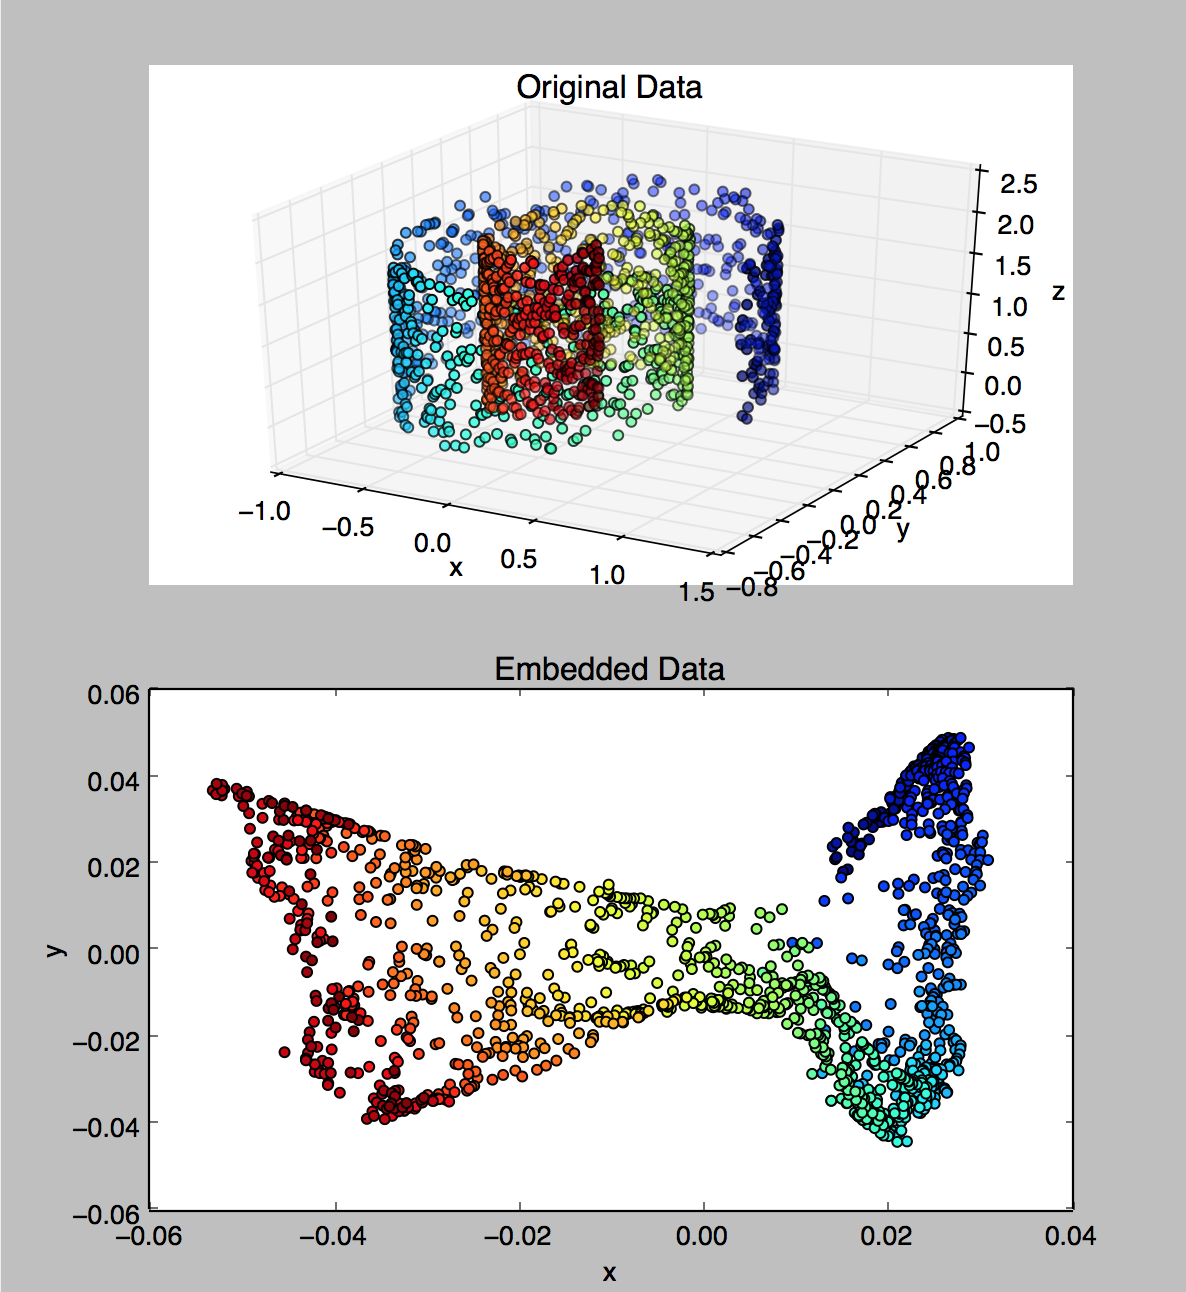
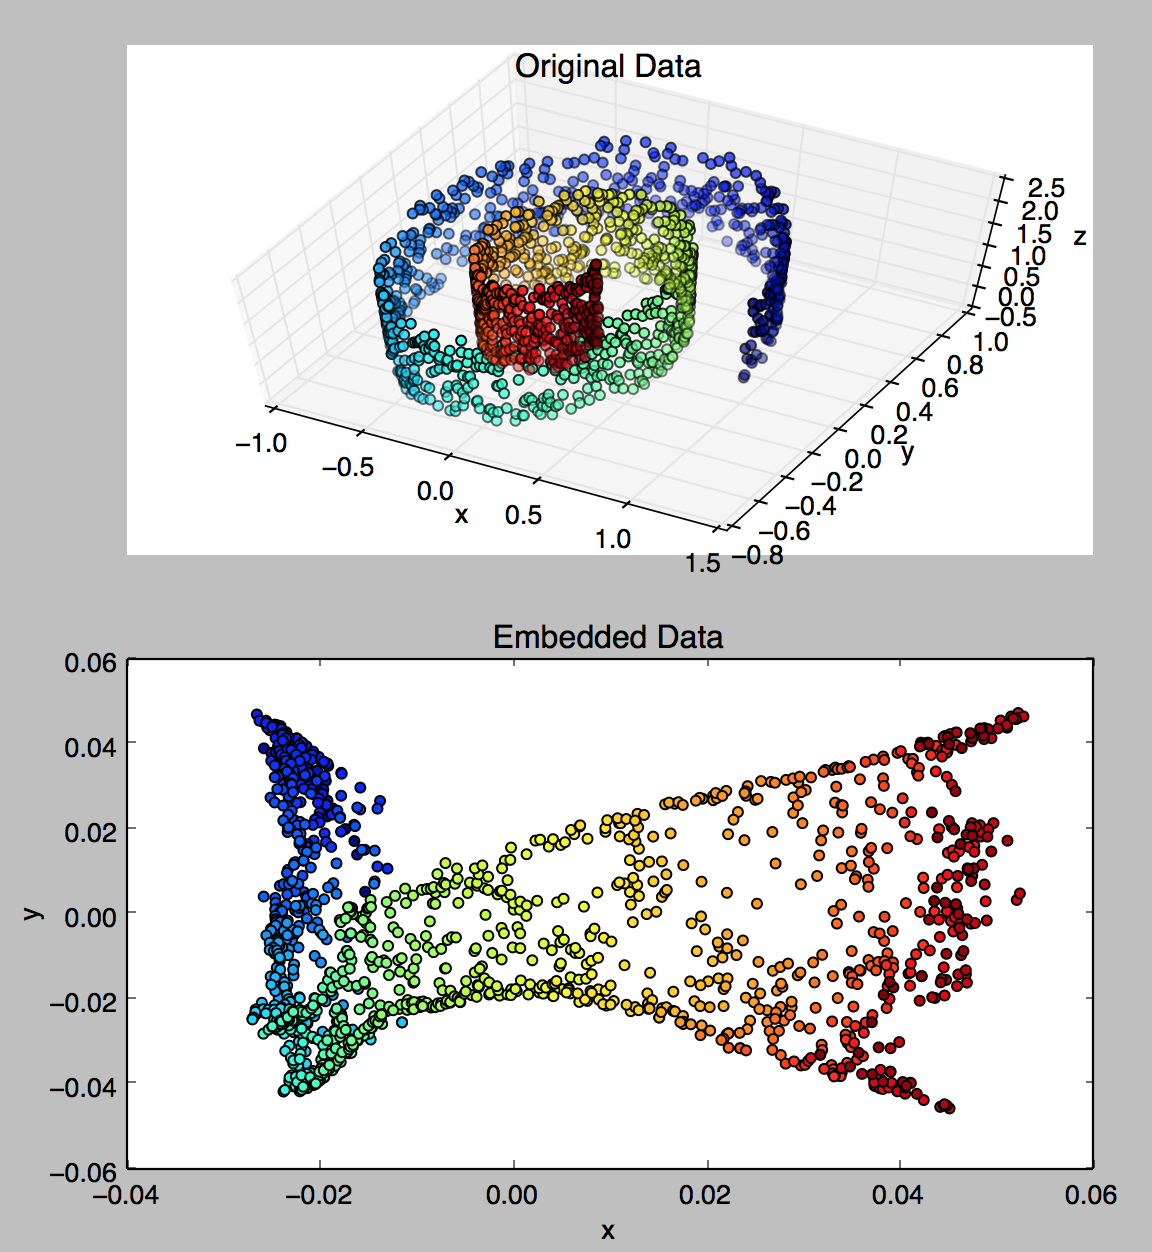
small changes

Changed region(s): [[0.0312, 0.4984, 0.9688, 0.9968], [0.0938, 0.0312, 0.9688, 0.4673]]

diff --git a/lapeigs.py b/lapeigs.py
@@ -137,7 +137,7 @@ if __name__=='__main__':
 	# data = readFromFile('swissroll_data.csv');
 
 	# Compute the graph Laplacian
-	l = buildGraphLaplacian( data, 5, 21)
+	l = buildGraphLaplacian( data, 2, 21)
 
 	# Embed onto the first three nontrivial eigenvectors
 	embedded_data = computeGraphEmbedding( l, (1,2) )
